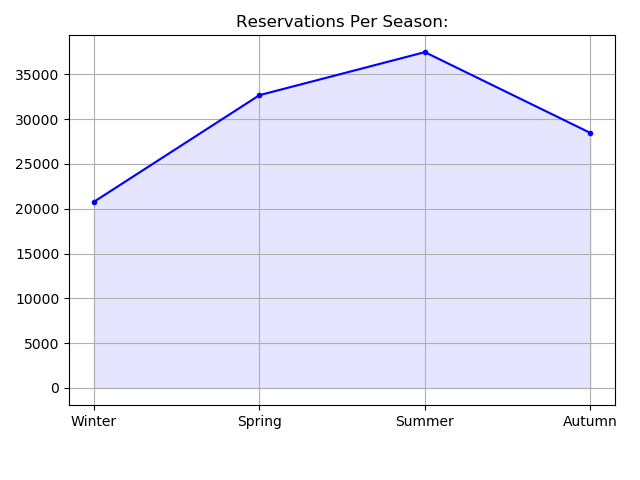
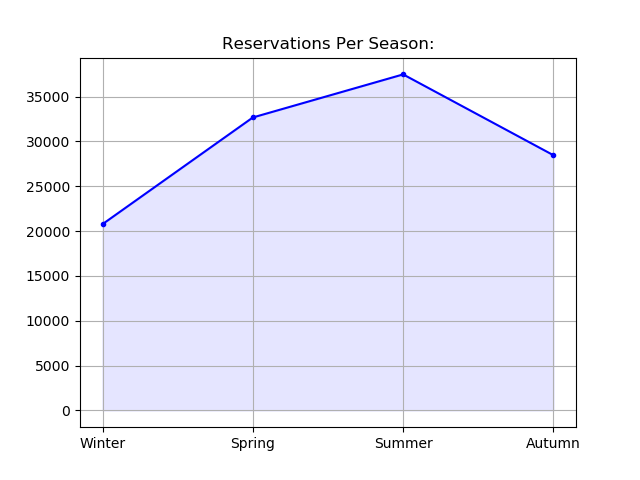
Added room type stats

diff --git a/functions.py b/functions.py
@@ -57,7 +57,7 @@ def calcBasics():
         axes[1].title.set_text("Hotel Night Stay-Ins Average:")
         fig.tight_layout()
         fig.savefig(".basicStats.png")
-        plt.clf()
+        plt.close()
 
 def calcMonthStats():
     global totalMonthDict
@@ -99,7 +99,7 @@ def calcMonthStats():
     plt.xticks(rotation=30)
     plt.tight_layout()
     plt.savefig(".monthStats.png")
-    plt.cla()
+    plt.close()
 
 def calcSeasonStats():
     totalSeasonDict = {
@@ -121,7 +121,7 @@ def calcSeasonStats():
     plt.grid()
     plt.title("Reservations Per Season:")
     plt.savefig(".seasonStats.png")
-    plt.cla()
+    plt.close()
 
 def calcRoomTypeStats():
     roomTypeDict = {
@@ -129,5 +129,22 @@ def calcRoomTypeStats():
         "B" : 0,
         "C" : 0,
         "D" : 0,
-        "E" : 0
+        "E" : 0,
+        "F" : 0,
+        "G" : 0,
+        "H" : 0,
+        "L" : 0,
+        "P" : 0
     }
+    counter = 0
+    for lines in csvFile:
+        roomTypeDict[lines['reserved_room_type']] += 1
+        counter += 1
+    plt.tight_layout()
+    plt.pie(list(roomTypeDict.values()), shadow=True, startangle=90)
+    
+    labels = [f'{l}: {round(s/counter*100, 2)}%' for l, s in zip(list(roomTypeDict.keys()),roomTypeDict.values())]
+    plt.legend(shadow=True, labels=labels, bbox_to_anchor=(0.05,0.8), loc='center right')
+    plt.title("Room Type Reservations:")
+    plt.savefig(".roomTypeStats.png")
+    plt.close()

diff --git a/QtUi.py b/QtUi.py
@@ -84,7 +84,19 @@ class MyWidget(QtWidgets.QWidget):
                 pic.setPixmap(pixmap)
                 pic.show()
 
+        def calcRoomTypeButton_func():
+            #try:
+            fun.calcRoomTypeStats()
+            #except NameError:
+            #    ConsoleText.setText("No File Selected! Please Read A File First.")
+            #else:
+            ConsoleText.setText("Room Type Calculation Successful! Showing Graph.")
+            pixmap = QtGui.QPixmap(".roomTypeStats.png")
+            pic.setPixmap(pixmap)
+            pic.show()
+
         ReadFileButton.clicked.connect(readFileButton_func)
         CalcBasicButton.clicked.connect(calcBasicsButton_func)
         CalcMonthButton.clicked.connect(calcMonthsButton_func)
         CalcSeasonButton.clicked.connect(calcSeasonButton_func)
+        CalcRoomTypeButton.clicked.connect(calcRoomTypeButton_func)
